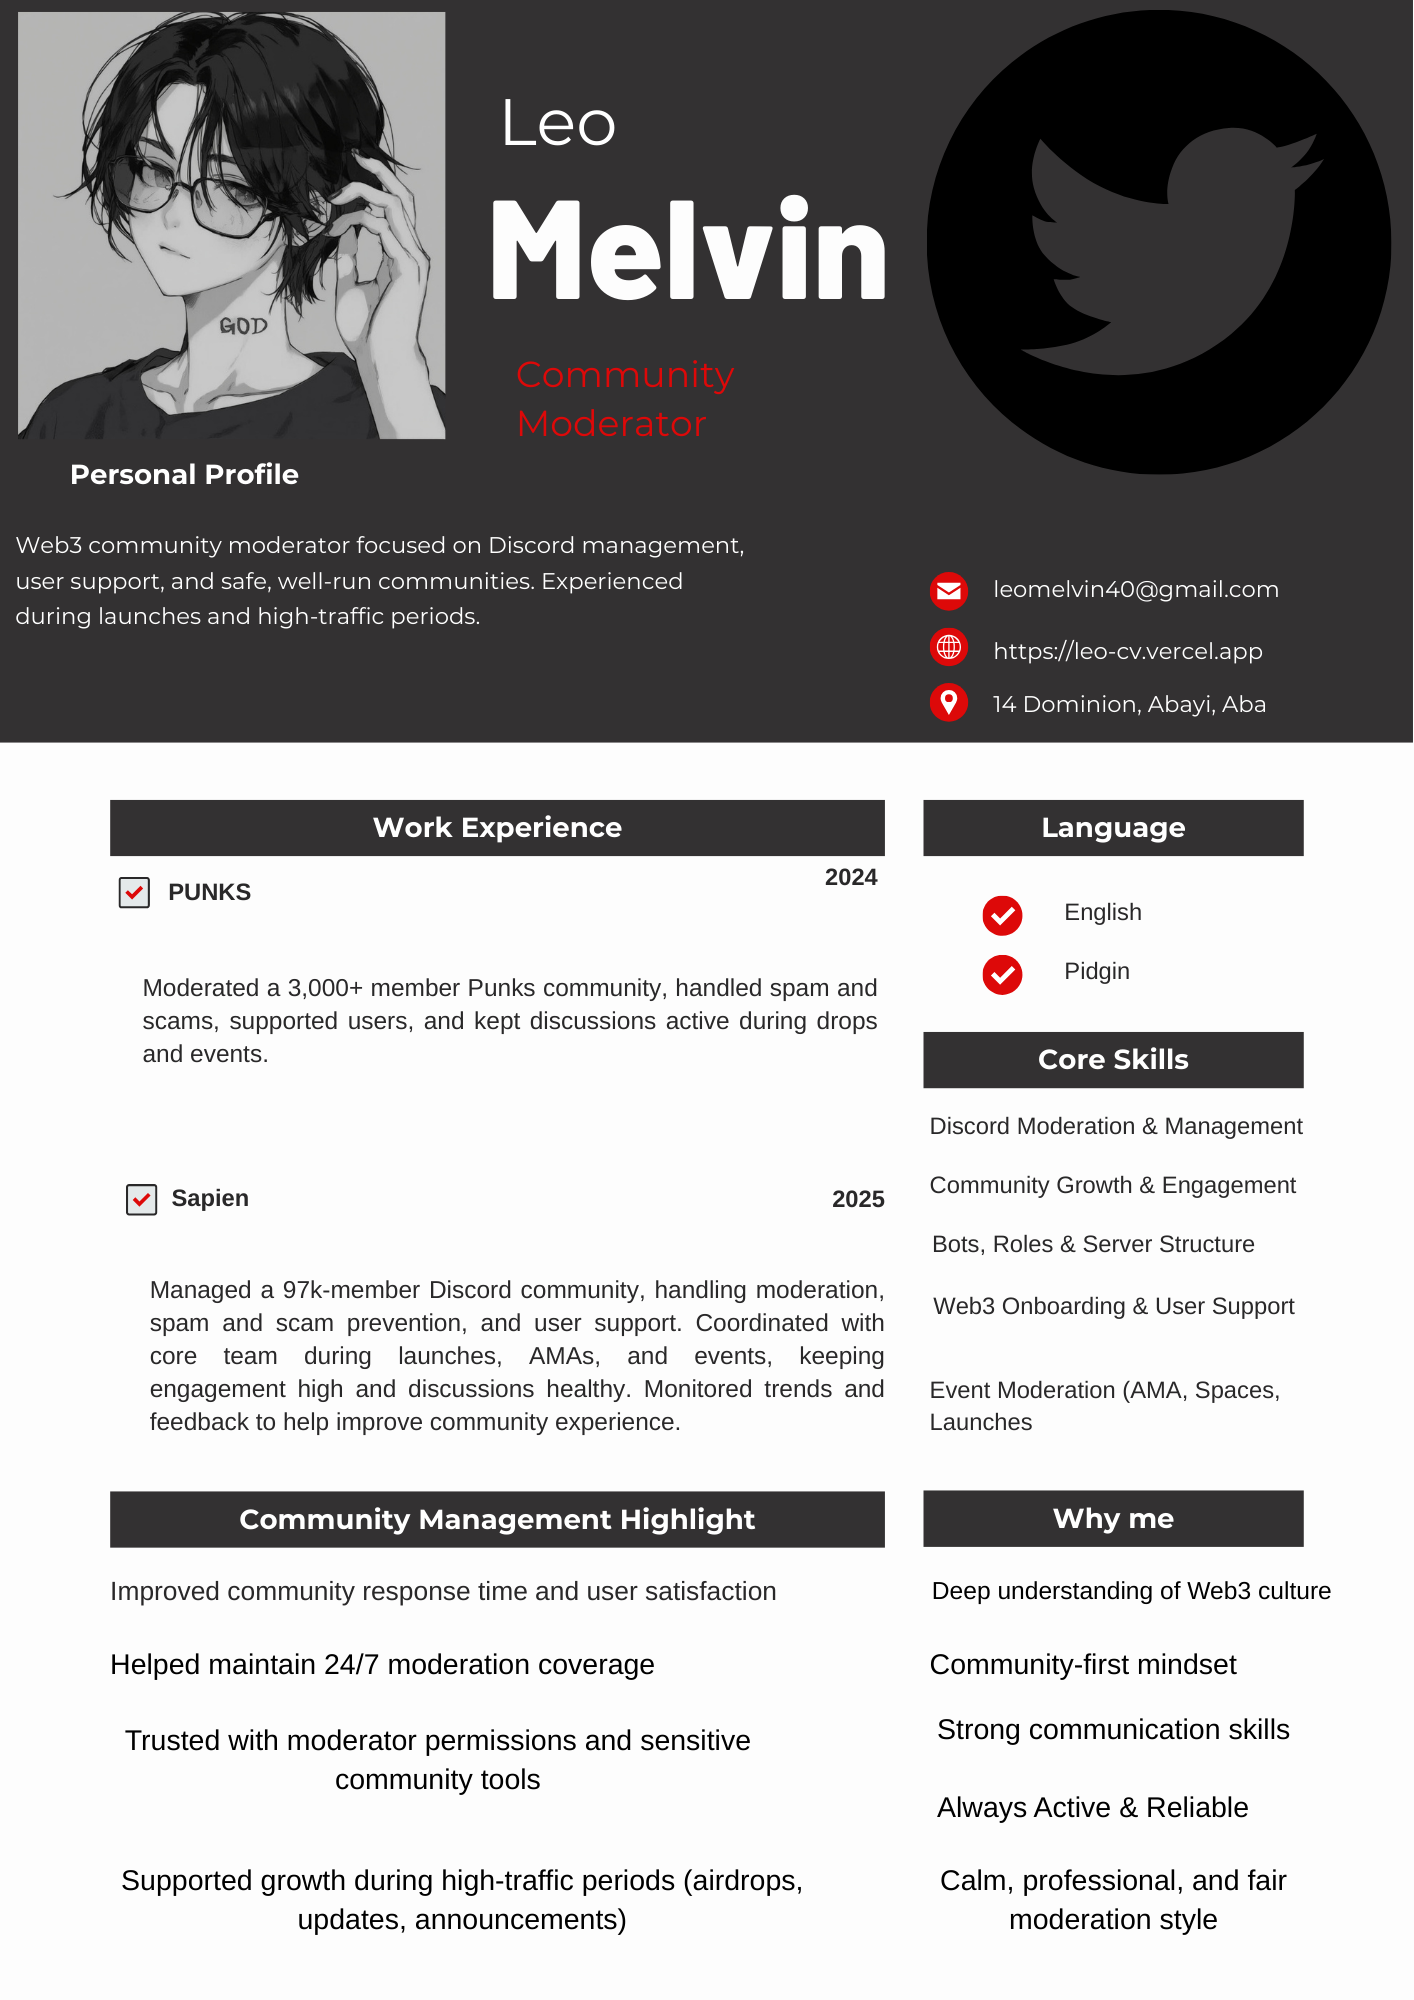
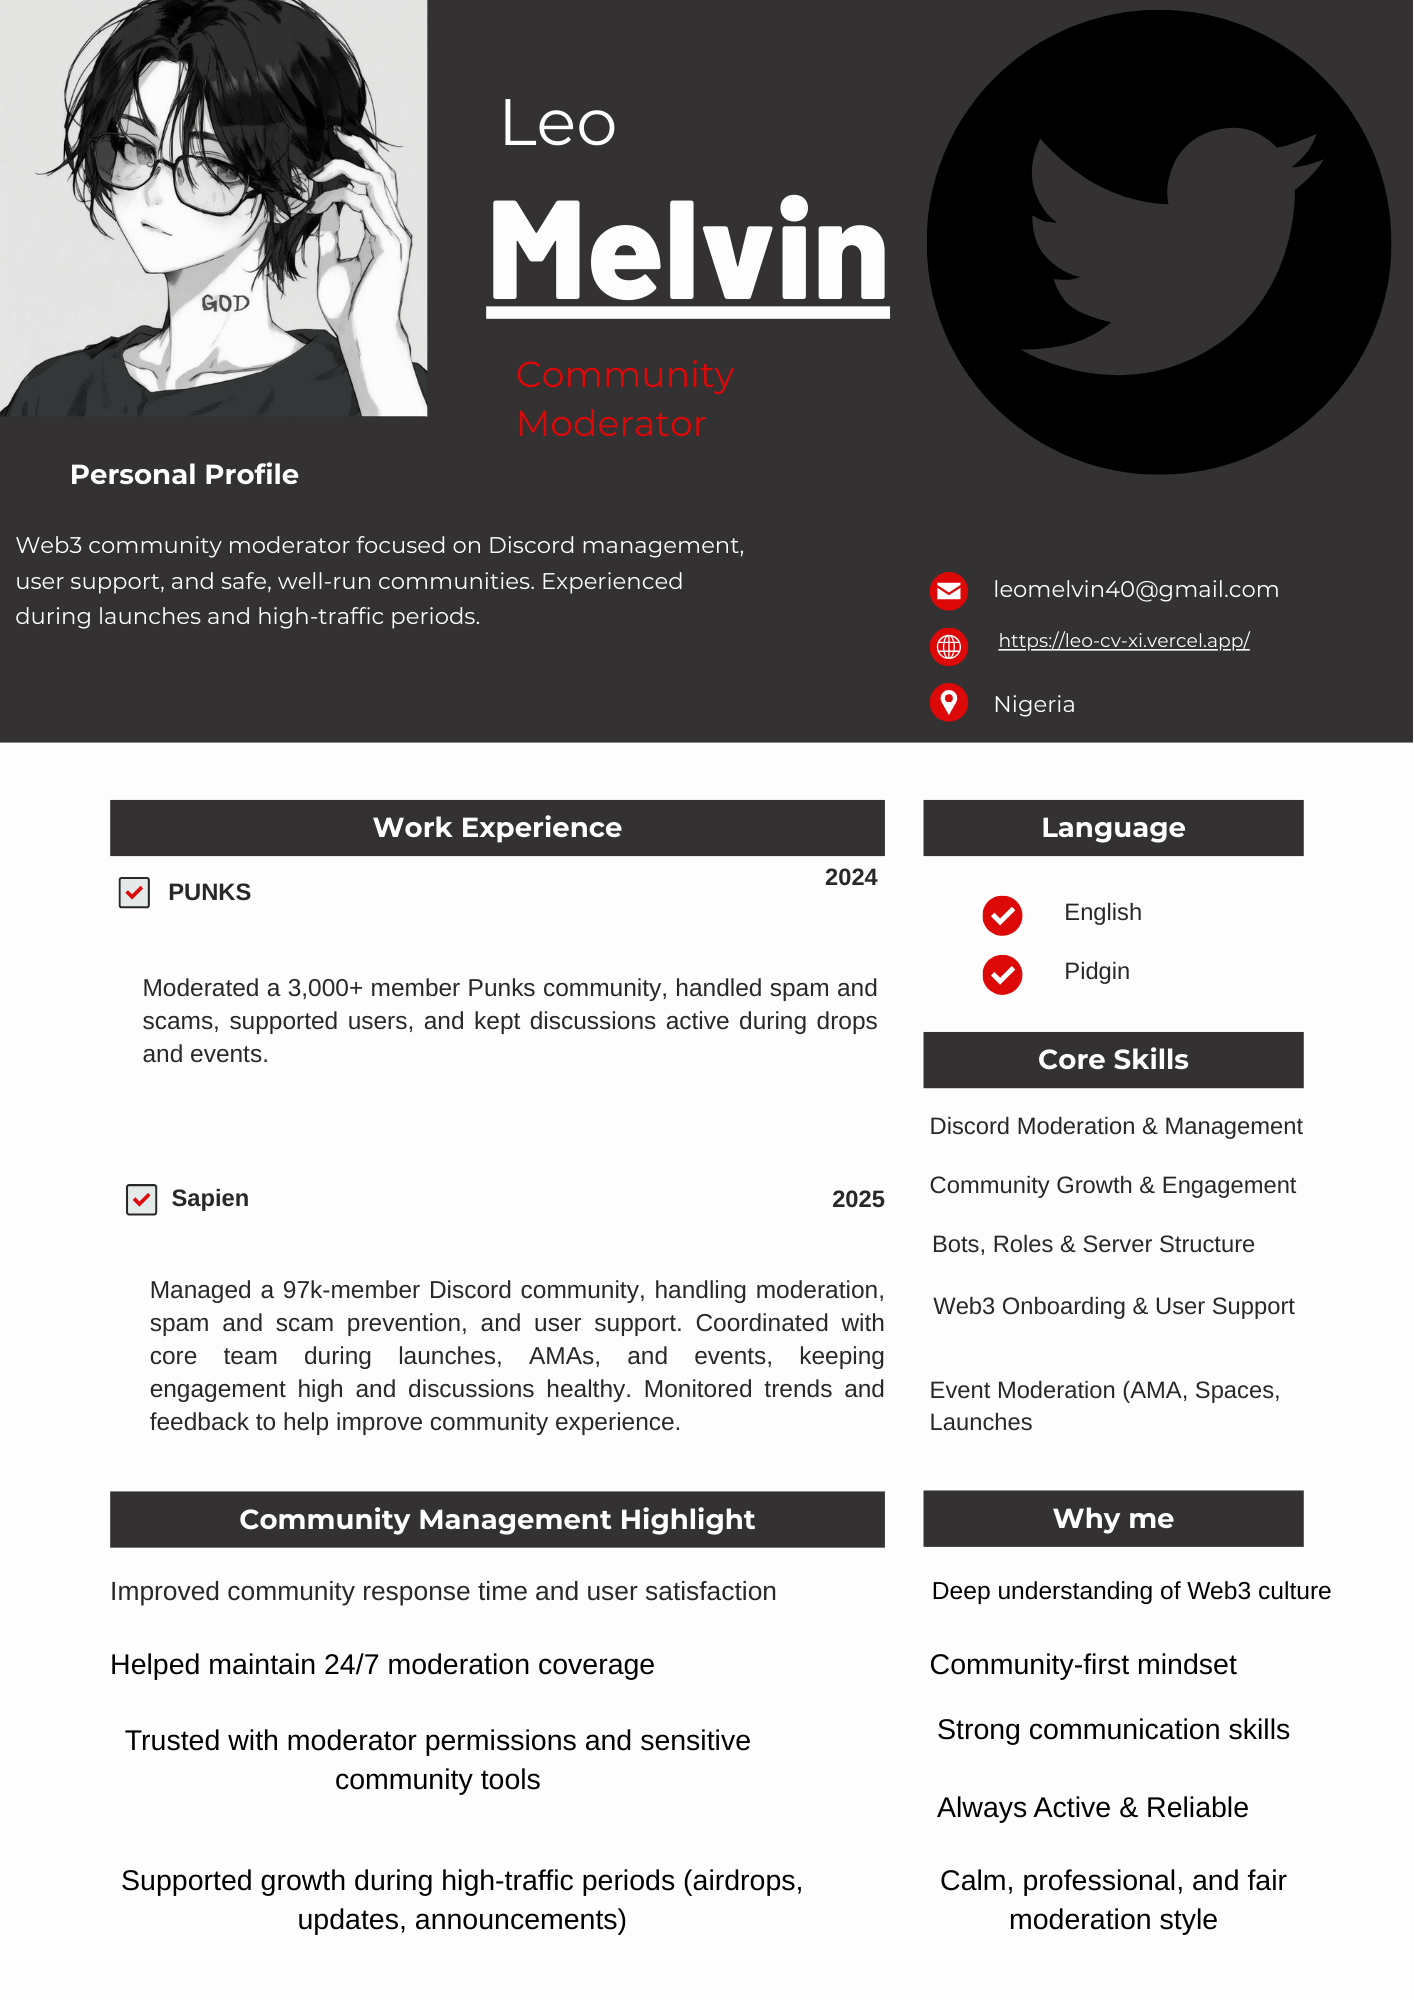
Fix paths and align Vercel with localhost

Changed region(s): [[0.0, 0.0, 0.6223, 0.217], [0.7157, 0.31, 0.9024, 0.372]]

diff --git a/index.html b/index.html
@@ -1,62 +1,60 @@
 <!DOCTYPE html>
 <html lang="en">
 <head>
-  <meta charset="UTF-8">
-  <meta name="viewport" content="width=device-width, initial-scale=1.0">
+  <meta charset="UTF-8" />
+  <meta name="viewport" content="width=device-width, initial-scale=1.0" />
   <title>Leo Melvin | Community Moderator</title>
-  <link rel="stylesheet" href="style.css">
+
+  <!-- IMPORTANT: root-relative path -->
+  <link rel="stylesheet" href="/style.css" />
 </head>
 <body>
-  <div class="cv-container">
-    <!-- Header -->
-    <header class="cv-header">
-      <div class="profile-pic">
-        <img src="assets/profile.png" alt="Leo Melvin">
-      </div>
-      <div class="header-info">
-        <h1>Melvin</h1>
+  <main class="card">
+    <header class="header">
+      <img src="/assets/profile.png" alt="Leo Melvin" class="avatar" />
+
+      <div class="info">
+        <h1>Leo Melvin</h1>
         <p class="role">Community Moderator</p>
-        <p class="about">
-          Web3 community moderator focused on Discord management, user support, 
-          and safe, well-run communities. Experienced during launches and high-traffic periods.
-        </p>
-        <div class="contact">
-          <p><span>📧</span> leomelvin40@gmail.com</p>
-          <p><span>🌐</span> <a href="https://leo-cv.vercel.app" target="_blank">leo-cv.vercel.app</a></p>
-          <p><span>📍</span> 14 Dominion, Abayi, Aba</p>
-        </div>
+
+        <ul class="contact">
+          <li>📧 leomelvin40@gmail.com</li>
+          <li>🌐 leo-cv-xi.vercel.app</li>
+          <li>📍 14 Dominion, Abayi, Aba</li>
+        </ul>
       </div>
     </header>
 
-    <!-- Main sections -->
-    <main class="cv-main">
-      <!-- Work Experience -->
-      <section class="work">
+    <section class="grid">
+      <div>
         <h2>Work Experience</h2>
-        <div class="job">
-          <h3>PUNKS <span>2024</span></h3>
-          <p>Moderated a 3,000+ member Punks community, handled spam and scams, 
-          supported users, and kept discussions active during drops and events.</p>
+        <div class="item">
+          <strong>PUNKS <span>2024</span></strong>
+          <p>
+            Moderated a 3,000+ member community, handled spam and scams,
+            supported users, and kept discussions active during drops
+            and events.
+          </p>
         </div>
-      </section>
+      </div>
 
-      <!-- Languages -->
-      <section class="languages">
+      <div>
         <h2>Languages</h2>
-        <ul>
-          <li>English</li>
-          <li>Pidgin</li>
+        <ul class="list">
+          <li>✔ English</li>
+          <li>✔ Pidgin</li>
         </ul>
-      </section>
+      </div>
 
-      <!-- Core Skills -->
-      <section class="skills">
+      <div>
         <h2>Core Skills</h2>
-        <ul>
-          <li>Discord Moderation & Management</li>
+        <ul class="list">
+          <li>✔ Discord Moderation & Management</li>
+          <li>✔ Community Support</li>
+          <li>✔ Scam Detection</li>
         </ul>
-      </section>
-    </main>
-  </div>
+      </div>
+    </section>
+  </main>
 </body>
 </html>

diff --git a/style.css b/style.css
@@ -1,102 +1,92 @@
-/* General resets */
 * {
   box-sizing: border-box;
   margin: 0;
   padding: 0;
-  font-family: 'Inter', sans-serif;
+  font-family: system-ui, -apple-system, BlinkMacSystemFont, "Segoe UI",
+    Roboto, Ubuntu, sans-serif;
 }
 
 body {
-  background-color: #0b0b0b;
-  color: #fff;
-  line-height: 1.6;
-}
-
-a {
-  color: #63b3ed;
-  text-decoration: none;
-}
-
-/* Container */
-.cv-container {
-  max-width: 900px;
-  margin: 30px auto;
-  padding: 20px;
-  background-color: #1a1a1a;
-  border-radius: 10px;
-  box-shadow: 0 0 20px rgba(0,0,0,0.7);
-}
-
-/* Header */
-.cv-header {
+  background: #0e0e0e;
+  color: #eaeaea;
+  min-height: 100vh;
   display: flex;
-  gap: 30px;
-  border-bottom: 2px solid #333;
-  padding-bottom: 20px;
+  align-items: center;
+  justify-content: center;
 }
 
-.profile-pic img {
-  width: 150px;
-  height: 150px;
+.card {
+  background: #151515;
+  width: 90%;
+  max-width: 900px;
+  padding: 24px;
+  border-radius: 16px;
+  box-shadow: 0 10px 40px rgba(0, 0, 0, 0.6);
+}
+
+.header {
+  display: flex;
+  gap: 20px;
+  margin-bottom: 24px;
+}
+
+.avatar {
+  width: 110px;
+  height: 110px;
   border-radius: 50%;
   object-fit: cover;
-  border: 2px solid #9ae6b4;
+  border: 2px solid #2a2a2a;
 }
 
-.header-info h1 {
-  font-size: 2.5rem;
-  margin-bottom: 5px;
+.info h1 {
+  font-size: 1.8rem;
 }
 
 .role {
-  color: #e53e3e;
-  font-weight: 500;
-  margin-bottom: 15px;
+  color: #ff4d4d;
+  margin: 6px 0 10px;
 }
 
-.about {
-  margin-bottom: 15px;
-  color: #e2e8f0;
+.contact {
+  list-style: none;
+  font-size: 0.9rem;
+  color: #bdbdbd;
 }
 
-.contact p {
-  margin-bottom: 5px;
-  font-size: 0.95rem;
+.contact li {
+  margin-bottom: 4px;
 }
 
-/* Main sections */
-.cv-main {
+.grid {
   display: grid;
-  grid-template-columns: repeat(auto-fit, minmax(250px, 1fr));
-  gap: 30px;
-  margin-top: 20px;
+  grid-template-columns: repeat(auto-fit, minmax(220px, 1fr));
+  gap: 20px;
 }
 
-.cv-main h2 {
-  background-color: #1f1f1f;
-  padding: 5px 10px;
-  border-left: 5px solid #63b3ed;
+h2 {
+  font-size: 1.1rem;
   margin-bottom: 10px;
-  font-size: 1.2rem;
+  border-left: 3px solid #ff4d4d;
+  padding-left: 8px;
 }
 
-.job h3 {
+.item strong {
   display: flex;
   justify-content: space-between;
-  font-size: 1rem;
-  margin-bottom: 5px;
-}
-
-.job p {
   font-size: 0.95rem;
 }
 
-ul {
-  list-style: none;
+.item p {
+  font-size: 0.85rem;
+  color: #cfcfcf;
+  margin-top: 6px;
 }
 
-ul li::before {
-  content: "✔ ";
-  margin-right: 5px;
-  color: #9ae6b4;
+.list {
+  list-style: none;
+  font-size: 0.9rem;
+}
+
+.list li {
+  margin-bottom: 6px;
 }
